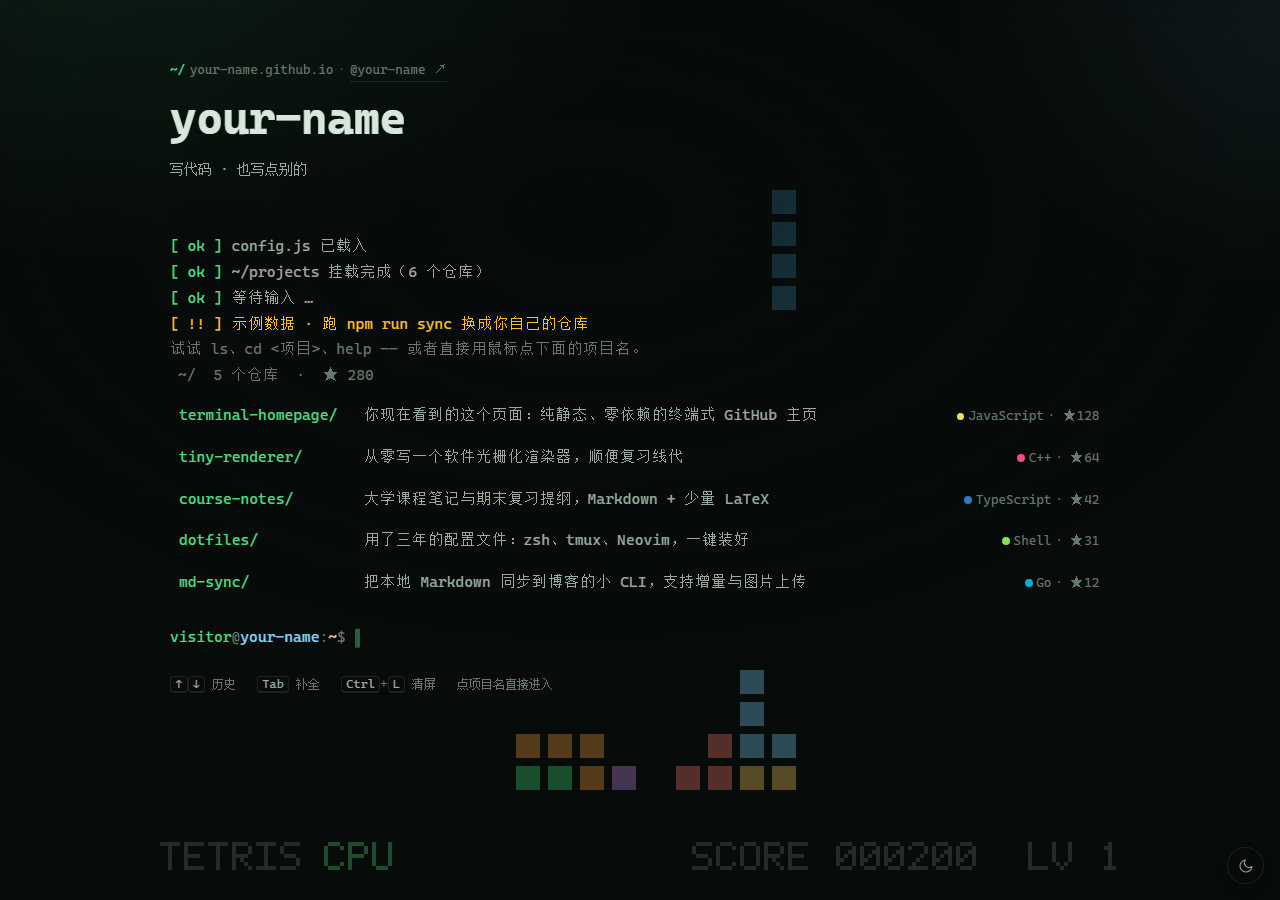
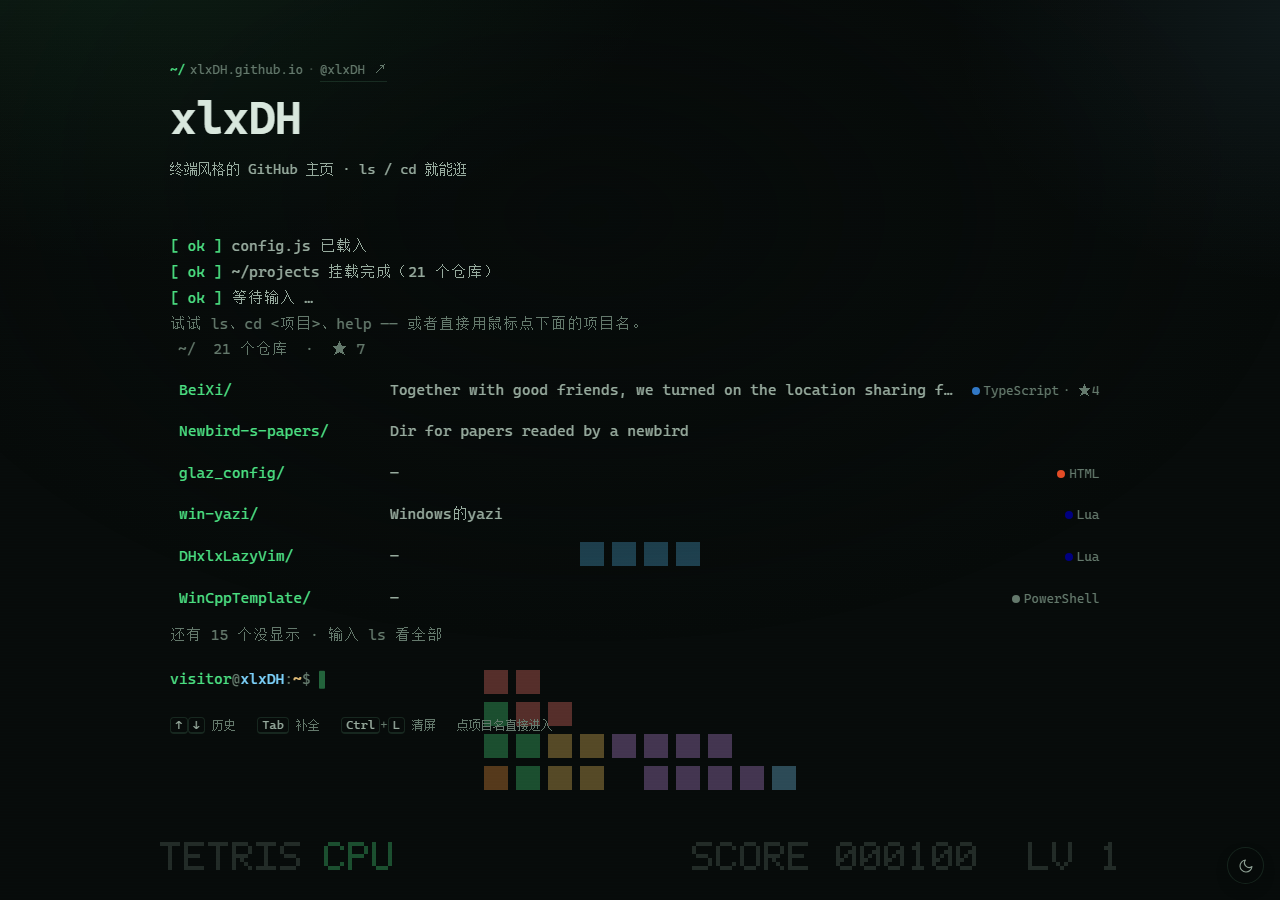
personalize for xlxDH: real repos, visitor login, compact first screen

diff --git a/assets/js/config.js b/assets/js/config.js
@@ -6,14 +6,14 @@
 window.CONFIG = {
   /* GitHub 用户名。留空 = 自动从 <user>.github.io 域名推断；
      本地预览时推断不出来，建议先填上你自己的用户名。 */
-  user: "",
+  user: "xlxDH",
 
   /* ---------- 展示 ---------- */
   name: "",                      // 留空则显示 user
-  role: "写代码 · 也写点别的",     // 一句话身份
+  role: "",                      // 一句话身份，例如 "ECJTU · 后端 / 全栈"
   tagline: "",                   // 追加在 role 后面，可留空
-  bio: "白天写前端，晚上折腾小工具。喜欢把想法做成能点的东西。",
-  location: "",                  // 例如 "Hangzhou, CN"
+  bio: "",                       // 自我介绍，whoami / about 会显示
+  location: "",                  // 例如 "Nanchang, CN"
   email: "",                     // 例如 "hi@example.com"
 
   /* 页头可点的链接。github 留空会自动指向 github.com/<user> */
@@ -28,6 +28,7 @@ window.CONFIG = {
   /* ---------- 交互 ---------- */
   autoJump: true,      // cd 进项目时，自动在新标签页打开仓库
   autoLs: true,        // 启动后自动执行一次 ls（首屏直接看到项目）
+  autoLsLimit: 6,      // 首屏最多列几个（0 = 全部；其余用 ls 展开）
   scanlines: true,     // CRT 扫描线
   theme: "auto",       // auto | dark | light
   promptUser: "visitor", // 访客默认名；访客可用 login <GitHub名> 换成自己的
@@ -37,8 +38,9 @@ window.CONFIG = {
   arcade: true,        // 关掉设 false（或 URL 加 ?arcade=off）
   arcadeIdle: 5000,    // 多少毫秒没有操作就自动开局
 
-  /* 不想展示的仓库（slug 或 name，小写） */
-  hidden: [],
+  /* 不想展示的仓库（slug 或 name，小写）
+     "-" 是个空仓库，ECJTU-22-C 是 GitHub 个人主页的 README 仓库，都不当项目展示 */
+  hidden: ["-", "ecjtu-22-c"],
 
   /* 自定义别名（也可以直接改这里） */
   aliases: {

diff --git a/assets/js/terminal.js b/assets/js/terminal.js
@@ -363,7 +363,7 @@
     );
 
     row.append(el('span', 'row__name', `${project.slug}/`));
-    row.append(el('span', 'row__desc', project.desc || '（没有描述）'));
+    row.append(el('span', 'row__desc', project.desc || '—'));
 
     const meta = el('span', 'row__meta');
     if (project.language) {
@@ -399,9 +399,15 @@
     if (stars) bits.push(`★ ${fmtNum(stars)}`);
     printLine(`~/  ${bits.join('  ·  ')}`, 'line--muted line--indent');
 
+    /* 首屏只铺前几个，免得把标题和输入框挤出屏幕；完整的用 ls 看 */
+    const shown = opts.limit ? list.slice(0, opts.limit) : list;
     const box = el('div', 'fs');
-    list.forEach((project) => box.append(projectRow(project, opts.long)));
+    shown.forEach((project) => box.append(projectRow(project, opts.long)));
     printBlock(box);
+
+    if (shown.length < list.length) {
+      printMuted(`还有 ${list.length - shown.length} 个没显示 · 输入 ls 看全部`);
+    }
   }
 
   function printFileList(project) {
@@ -478,7 +484,7 @@
   function printReadme(project) {
     const md = el('div', 'md');
     md.append(el('h2', 'md__title', `# ${project.slug}`));
-    md.append(el('p', 'md__desc', project.desc || '（没有描述）'));
+    md.append(el('p', 'md__desc', project.desc || '这个仓库还没有写描述。'));
 
     const list = el('ul', 'md__list');
     const item = (key, value) => {
@@ -1328,7 +1334,10 @@
     if (invited) printLine(`[ ok ] 你好，${guest} —— 提示符已经用上你的名字`, 'line--dim');
     if (!deepProject) {
       printMuted('试试 ls、cd <项目>、help —— 或者直接用鼠标点下面的项目名。');
-      if (CONFIG.autoLs !== false && PROJECTS.length) printProjectList({});
+      if (CONFIG.autoLs !== false && PROJECTS.length) {
+        const limit = CONFIG.autoLsLimit === 0 ? 0 : Number(CONFIG.autoLsLimit) || 6;
+        printProjectList({ limit });
+      }
     }
 
     routeFromHash();

diff --git a/assets/js/data/projects.js b/assets/js/data/projects.js
@@ -1,12 +1,12 @@
 /* =========================================================================
  * 自动生成，请勿手动编辑。
- * 由 scripts/sync-projects.mjs 于 2026-10-29T09:01:39.777Z 生成
+ * 由 scripts/sync-projects.mjs 于 2026-10-29T09:04:24.243Z 生成
  * 用户：xlxDH · 仓库数：23
  * 想改内容就改 GitHub 上的仓库信息，然后重新运行 npm run sync
  * ========================================================================= */
 window.PROJECTS_META = {
   "user": "xlxDH",
-  "generatedAt": "2026-10-29T09:01:39.776Z",
+  "generatedAt": "2026-10-29T09:04:24.241Z",
   "demo": false,
   "source": "github-api",
   "profile": {

diff --git a/assets/css/terminal.css b/assets/css/terminal.css
@@ -377,7 +377,7 @@ kbd {
 
 .row {
   display: grid;
-  grid-template-columns: minmax(0, 19ch) minmax(0, 1fr) auto;
+  grid-template-columns: minmax(0, 22ch) minmax(0, 1fr) auto;
   gap: 0 2ch;
   align-items: baseline;
   width: 100%;

diff --git a/README.md b/README.md
@@ -14,7 +14,7 @@
 
 ![背景游戏机](docs/preview-arcade.png)
 
-> 截图用的是内置示例数据；换成真实仓库后是同样的版式。
+> 截图就是 xlxDH 的真实仓库数据。
 
 ---
 
@@ -24,7 +24,7 @@
 
 | 方案 | 手感 | 体积 / 依赖 | 维护成本 | 适合谁 |
 | --- | --- | --- | --- | --- |
-| **手写静态终端**（本项目） | 够像：提示符、光标、补全、历史都有 | 63 KB（gzip 后 18 KB），0 依赖 | 改一个 `config.js` | 想要干净、快、每一行都能自己改 |
+| **手写静态终端**（本项目） | 够像：提示符、光标、补全、历史都有 | 106 KB（gzip 后 30 KB），0 依赖 | 改一个 `config.js` | 想要干净、快、每一行都能自己改 |
 | xterm.js + local-echo | 真终端：ANSI、滚屏、光标移动 | 300 KB+，要打包 | 依赖长期升级 | 想做成 WebSSH 那种重度终端 |
 | 现成主题（Hugo / Jekyll 的 terminal 主题） | 看主题质量 | 要装生成器工具链 | 模板+主题两层配置 | 想顺便把博客一起搭了 |
 | React + 终端组件库 | 组件化 | 框架 + 依赖 | 中等 | 本来就在写 React |
@@ -42,11 +42,10 @@
 3. 仓库 **Settings → Pages → Source** 选 **GitHub Actions**，等第一次 Action 跑完，
    访问 `https://<你的用户名>.github.io`。
 
-首次部署用的是内置示例数据。想换成真实仓库：
+已经被 `xlxDH` 同步过一次（21 个仓库）。以后新增仓库可以手动刷新，或等 Action 每周自动跑：
 
 ```bash
-npm run sync -- <你的 GitHub 用户名>   # 生成 assets/js/data/projects.js
-git add -A && git commit -m "sync projects" && git push
+npm run sync -- xlxDH   # 重新生成 assets/js/data/projects.js
 ```
 
 （不需要 `npm install`，全项目没有任何依赖。）
@@ -127,6 +126,7 @@ links: { github: "", blog: "", x: "", zhihu: "", rss: "" },
 email: "",
 autoJump: true,      // cd 后自动开新标签
 autoLs: true,        // 首屏自动 ls
+autoLsLimit: 6,      // 首屏最多列几个（0 = 全部）
 theme: "auto",       // auto | dark | light
 promptUser: "visitor", // 访客默认名，login 之后会变
 arcade: true,        // 背景 FC 游戏机
@@ -188,8 +188,11 @@ LICENSE
 **会不会被弹窗拦截？**
 不会。跳转走的是 `<a target="_blank">` 的点击，属于页面导航，不是 `window.open`。
 
-**为什么首屏是示例数据？**
-`projects.js` 里 `demo: true`。跑一次 `npm run sync -- <user>` 后会被真实数据覆盖，提示也会消失。
+**新增了仓库但页面没更新？**
+`projects.js` 是构建期生成的，跑一次 `npm run sync -- xlxDH` 重新生成（或在 Actions 里手动触发一次 workflow）。
+
+**首屏为什么只列 6 个？**
+`config.js` 里的 `autoLsLimit` 控制，设 `0` 就一次列出全部；首屏少一点，标题和输入框才不会被顶出屏幕，完整的用 `ls` 看。
 
 **能自动认出访客的 GitHub 名字吗？**
 不能。没有 OAuth 就没有可信的身份来源，Referer 也只给 `github.com` 这个域名。
